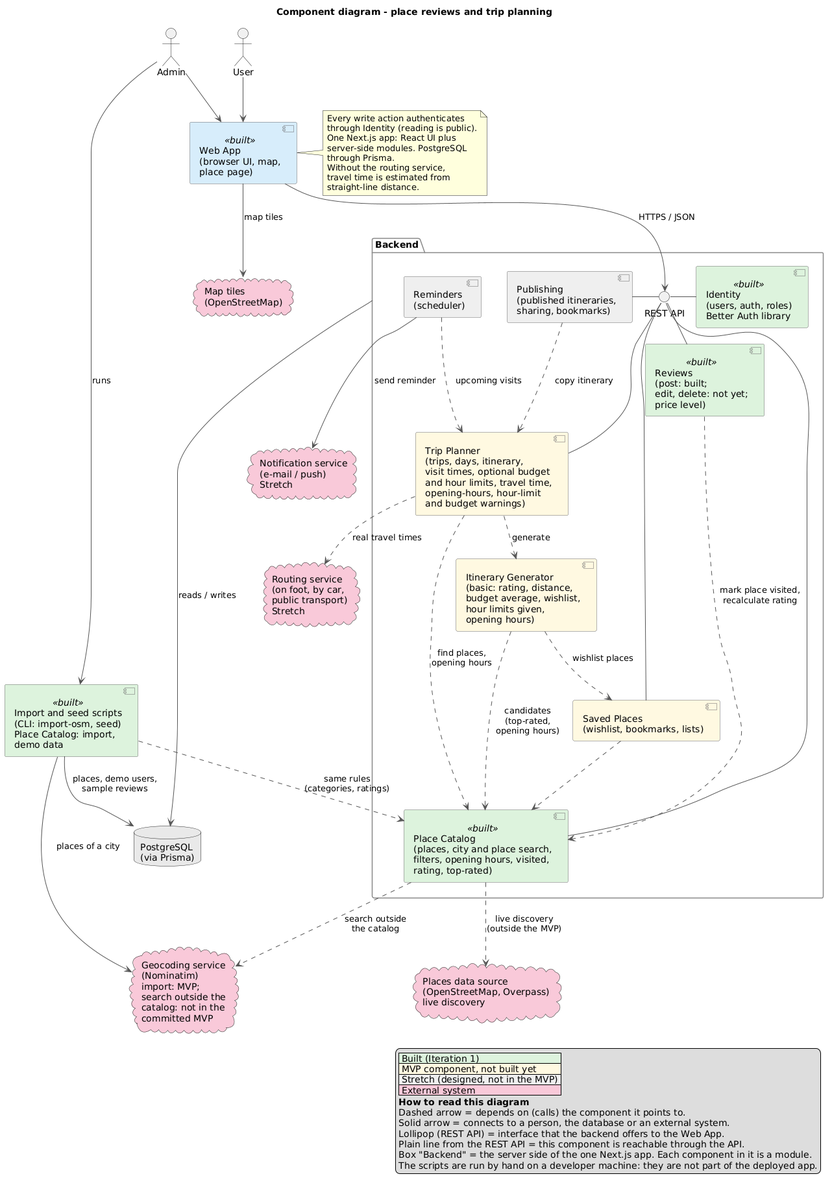
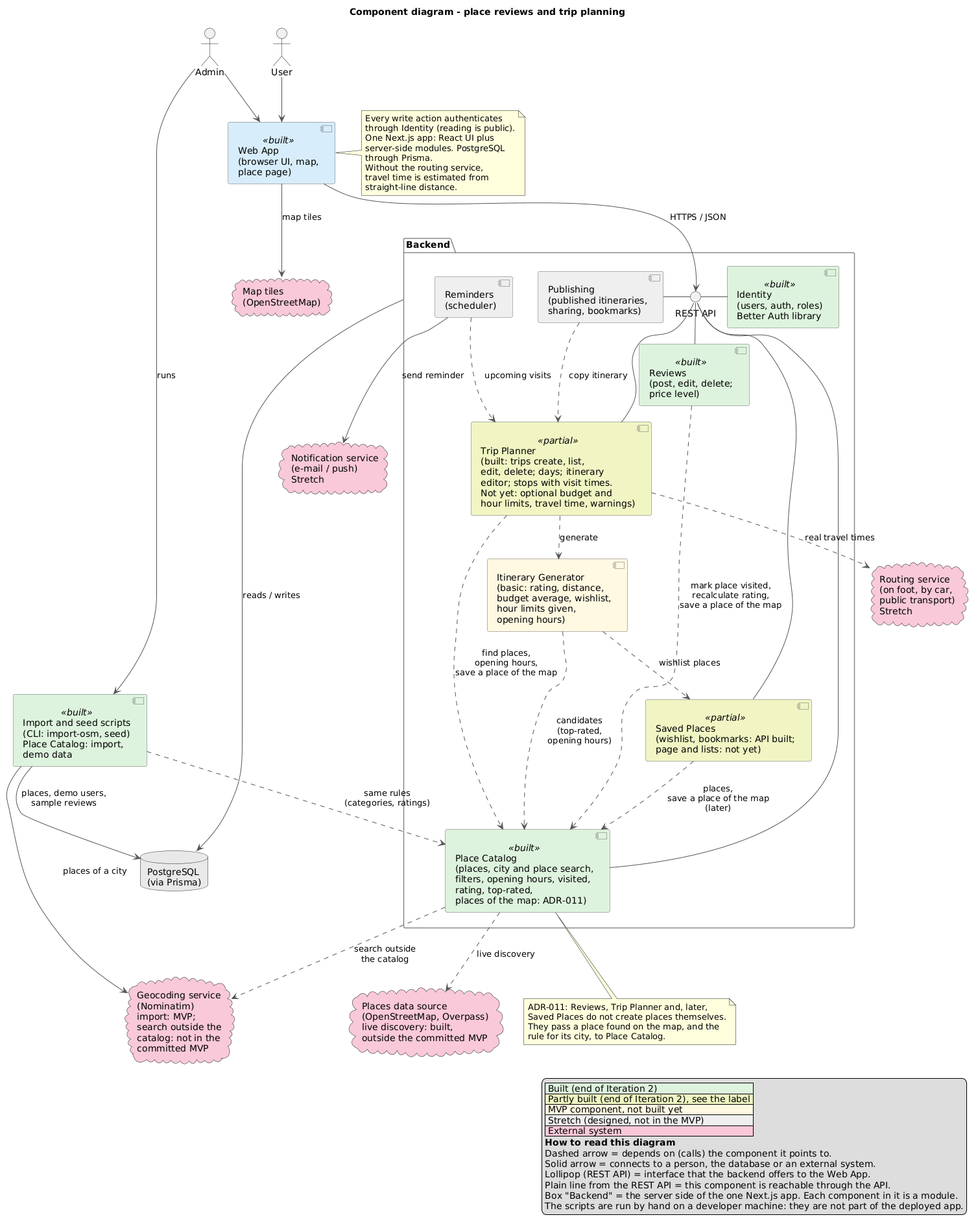
Design (DOO, end of Iteration 2): domain model and component diagram updated, scenario 2 and ADR-011
Domain model: DiscoveredPlace (a place found on the map), updatedAt of a review, the price baseline of OpenStreetMap, the order of the stops with a time, and the rules for editing a trip. Component diagram: state at the end of Iteration 2 (Reviews built, Trip Planner and Saved Places partly built) and the decision of scenario 2.
Section 4.2: saving a place found on the map. Two handlers have their own copy and already disagree on the city; coupling (R1 to R4) and cohesion analysis, four options, decision with the Strategy pattern for the city rule (ADR-011), before and after diagrams. ADR-010 is marked as built.

diff --git a/docs/design.md b/docs/design.md
@@ -158,9 +158,10 @@ Terms are defined in the [glossary](GLOSSARY.md).
 | User                           | User                | username, email, role (USER / ADMIN)                                                         | writes Reviews, makes Visits, saves Places, owns Lists, plans Trips. An ADMIN is also the moderator of suggestions |
 | City                           | Place               | name, country, latitude, longitude, timezone                                                           | contains Places, destination of Trips                                                     |
 | Place                          | Place               | name, description, category, address, latitude, longitude, openingHours (optional), /priceLevel, /averageRating, /reviewCount | belongs to a City, has Reviews and Visits                       |
+| DiscoveredPlace (value object) | Place               | name, address (optional), category (optional), latitude, longitude, priceLevel (optional)    | a place found on the map or in the search that the catalog does not have yet; becomes a Place the first time it is reviewed or added to a trip, in a City |
 | Visit                          | Place               | visitedAt                                                                                    | links a User to a Place (at most one per pair); created when the user posts a review      |
 | PlaceSuggestion (post-MVP)     | Place suggestion    | proposedName, proposedCategory, proposedAddress, status, suggestedAt, decidedAt (optional)   | suggested by a User, decided by a moderator (ADMIN), proposed in a City, approved as a Place |
-| Review                         | Review              | rating (1..5), priceLevel (FREE, €, €€ or €€€; required when posted), text, createdAt                                        | written by a User about a Place (a user reviews a given place at most once)               |
+| Review                         | Review              | rating (1..5), priceLevel (FREE, €, €€ or €€€; required when posted), text, createdAt, updatedAt                                        | written by a User about a Place (a user reviews a given place at most once)               |
 | SavedPlace                     | Saved places        | type (WISHLIST / BOOKMARK)                                                                   | a User saves a Place                                                                      |
 | SavedList                      | List                | name                                                                                         | owned by a User, contains bookmarked SavedPlaces                                          |
 | Trip                           | Trip                | name, startDate, endDate                                                                     | owned by a User, goes to a City, has Days and one Itinerary                               |
@@ -196,6 +197,18 @@ Design notes:
   the Visit.
 - Place suggestion is its own aggregate (Dream). When a suggestion is approved, a
   policy adds a Place to the catalog in the city it was proposed in.
+- A place found on the map is a value object, not a Place: it has no identity in the
+  catalog until it becomes one. The rule for its city depends on who saves it: a trip
+  takes it in the city of the trip, only if its position is inside that city (a trip
+  never holds a place of another city), and a review is meant to take it in the nearest city of the
+  catalog (S19; today a review always assigns Porto, see ADR-002). The two rules are one decision in [ADR-011](#adr-011-one-function-saves-a-place-found-on-the-map-and-the-rule-for-its-city-is-an-argument).
+- What OpenStreetMap says about the price (free, or nothing) is kept apart from what the
+  reviews say and no review changes it. When the reviews no longer give a price, the price
+  level of the place goes back to it.
+- The stops of a day with a visit time stay in the order of their times, and a stop
+  without a time can be anywhere. The name and the dates of a trip can be changed: every
+  day then gets its new date and keeps its number, and a day after the new end date is
+  removed with its stops, after the person confirms.
 
 ## 3. High-level architecture
 
@@ -206,8 +219,8 @@ Design notes:
 
 The component diagram is **the solution**: how the system is built to solve the problem
 described by the [domain model](#22-domain-model). Green components are built (end of
-Iteration 1), yellow ones are MVP and not built yet, grey ones are Stretch: designed,
-not in the MVP.
+Iteration 2), light green ones are partly built (the label says what), yellow ones are
+MVP and not built yet, grey ones are Stretch: designed, not in the MVP.
 
 **How to read the diagram** (the same legend is inside the diagram):
 
@@ -226,10 +239,10 @@ not in the MVP.
 | -------------------- | ---------------------------------------------------------------------------------------------------------------------------------------------------------------------------- | ----------------------------------------------------------------------- |
 | Web App (built)      | Browser UI for users and admins, including the map and the place page                                                                                                         | Backend REST API, Map tiles (external)                                  |
 | Identity (built)     | Users, authentication (Better Auth, see ADR-009), roles                                                                                                                                                 | Database                                                                |
-| Place Catalog (built) | The whole Place aggregate: places, city search, import, opening hours, visited marker, rating recalculation and the top-rated list (live discovery of places and search outside the catalog are built but outside the committed MVP; suggestions and moderation are post-MVP) | Database, Places data source (external), Geocoding service (external) |
-| Reviews (post built; edit and delete not yet) | Post, edit and delete reviews, including the price level. Triggers _mark place visited_ and _recalculate rating_ in Place Catalog (ADR-010 puts both policies in one function)                                            | Place Catalog                                                           |
-| Saved Places         | Wishlist, bookmarks and custom lists                                                                                                                                         | Place Catalog                                                           |
-| Trip Planner         | Trips, days, itineraries with their optional budget level and hour limits, visit times, travel-time estimates, opening-hours, hour-limit and budget warnings                                                | Place Catalog, Itinerary Generator, Routing service (external, Stretch) |
+| Place Catalog (built) | The whole Place aggregate: places, city search, import, opening hours, visited marker, rating recalculation, the top-rated list and saving the places found on the map (ADR-011) (live discovery of places and search outside the catalog are built but outside the committed MVP; suggestions and moderation are post-MVP) | Database, Places data source (external), Geocoding service (external) |
+| Reviews (built) | Post, edit and delete reviews, including the price level. Triggers _mark place visited_ and _recalculate rating_ in Place Catalog (ADR-010 puts both policies in one function) and passes a place found on the map to Place Catalog to be saved (ADR-011) | Place Catalog |
+| Saved Places (partly built) | Wishlist, bookmarks and custom lists. Built: the API for the wishlist and the bookmarks. Not yet: the page and the lists. Saving a place found on the map would go through Place Catalog (ADR-011) | Place Catalog |
+| Trip Planner (partly built) | Trips, days, itineraries. Built: create, list, edit and delete a trip, the itinerary editor, and the stops with their visit times and their order. Not yet: the optional budget level and hour limits, travel-time estimates, and the opening-hours, hour-limit and budget warnings. A place found on the map is passed to Place Catalog to be saved, with the rule for the city of the trip (ADR-011) | Place Catalog, Itinerary Generator, Routing service (external, Stretch) |
 | Itinerary Generator  | Builds a basic itinerary from top-rated places, type filters, distance, the budget average, the wishlist, the hour limits given for the generation and known opening hours.                           | Place Catalog, Saved Places                                             |
 | Import and seed scripts (built) | The command line side of Place Catalog: imports the places of a city from OpenStreetMap into a snapshot and the database, and loads the demo users, places and sample reviews. They are run by hand and reuse the rules of `src/domain` | Database, Geocoding service (external), Place Catalog rules |
 | Publishing (Stretch) | Published itineraries, sharing, bookmarks                                                                                                                                    | Trip Planner                                                            |
@@ -278,6 +291,7 @@ truth. Domain policies are on the EventStorming board and in section 2.1.
 | ADR-008 | Rank places by a weighted rating                          | Accepted              |
 | ADR-009 | Authentication with Better Auth                           | Accepted              |
 | ADR-010 | One function recomputes the stored values of a place      | Accepted              |
+| ADR-011 | One function saves a place found on the map, and the rule for its city is an argument | Accepted (built with S19 or the first story that needs it) |
 
 #### ADR-001: Full-stack architecture with Next.js 15 App Router
 
@@ -302,7 +316,7 @@ truth. Domain policies are on the EventStorming board and in section 2.1.
 - **Alternatives considered:** only the import script, with no live calls. It was the first version of this decision: the demos then need no external network, but a place that was not imported cannot be reviewed.
 - **Consequences:**
   - _Positive:_ with live discovery any place on the map can be reviewed or added to a trip, the catalog still works when Overpass is down (it falls back to the database), and relational integrity is kept for all reviews and trips because only saved places can be reviewed.
-  - _Trade-offs:_ the map depends on public Overpass servers for places that are not yet saved, and they can be slow or rate-limited. A place saved by `POST /api/reviews` is always assigned to the city Porto, so this must be fixed before live discovery is used in other cities. The trip route does not have this problem: it uses the city of the trip and the city areas.
+  - _Trade-offs:_ the map depends on public Overpass servers for places that are not yet saved, and they can be slow or rate-limited. A place saved by `POST /api/reviews` is always assigned to the city Porto, so this must be fixed before live discovery is used in other cities. The trip route does not have this problem: it uses the city of the trip and the city areas. [ADR-011](#adr-011-one-function-saves-a-place-found-on-the-map-and-the-rule-for-its-city-is-an-argument) decides how the two are brought together.
 
 #### ADR-003: Soft budget metric based on cost points
 
@@ -412,7 +426,7 @@ truth. Domain policies are on the EventStorming board and in section 2.1.
 
 #### ADR-010: One function recomputes the stored values of a place
 
-- **Status:** Accepted. It is built with US-C2-01 (edit and delete a review).
+- **Status:** Accepted and built in Iteration 2 with US-C2-01 (edit and delete a review): `refreshPlaceStats` and `markPlaceVisited` are in `src/lib/place-stats.ts`.
 - **Context:** A place stores three values that are derived from its reviews: `averageRating`, `reviewCount` and `priceLevel`. The rules are pure functions in `src/domain/reviews/rating.ts`, but the sequence that applies them (load the reviews, apply the rules, write the three values) is written in the post handler and in the seed, and the visit policy only in the post handler. The rules change often, and the seed already missed the visit policy because it was copied, not shared. Edit and delete (US-C2-01) would add two more copies. The full analysis is in section 4.1 ([change scenarios](#4-future-change-scenarios-coupling-cohesion-and-design-decisions)).
 - **Decision:** One function, `refreshPlaceStats(db, placeId)` in `src/lib/place-stats.ts`, recomputes the three values, and `markPlaceVisited(db, userId, placeId)` next to it holds the visit policy. The post, edit and delete handlers and the seed call them and pass their database client. The formulas stay pure in `src/domain/reviews/rating.ts`.
 - **Alternatives considered:** copying the steps into each handler (cheapest now, functional coupling between four writers with the most volatile rules); computing the values in the database with a trigger or a view (a volatile rule moves into SQL, away from the tested code); not storing the values and computing them on every read (every list and ranking aggregates thousands of reviews).
@@ -420,6 +434,17 @@ truth. Domain policies are on the EventStorming board and in section 2.1.
   - _Positive:_ functional coupling becomes contract coupling (a caller only says which place changed), a rule change touches one place, the Place policies leave the review handler as the component diagram says, and the seed cannot miss a policy again.
   - _Trade-offs:_ one more module and one more level of indirection, and the function is tested with a database or a fake client, not as a pure function. Two simultaneous requests would compute from a stale list of reviews, so each writer calls the function inside its own transaction and the function first locks the row of the place (`SELECT … FOR NO KEY UPDATE`): the second request waits, then reads the reviews that the first one saved.
   - _Revisit:_ when the stored values grow (for example the rating score is stored), or when `rating.ts` keeps growing with unrelated rules and must be split.
+
+#### ADR-011: One function saves a place found on the map, and the rule for its city is an argument
+
+- **Status:** Accepted. It is built with the first story that needs it: S19 (live discovery, AC2) or saving a place found on the map to a wishlist or bookmarks, as its first step.
+- **Context:** A place found on the map becomes a `Place` the first time it is reviewed or added to a trip. Two handlers do it, each with its own copy of the sequence, and the copies disagree: `POST /api/reviews` assigns the city Porto without checking the position, `POST /api/trips/[id]/stops` assigns the city of the trip and checks the position against the city areas and saves only after the stop is accepted. S19 asks for a third rule, the nearest city of the catalog. Saving a place of the map to a wishlist would add a third copy. The rules change often (9 commits to the reviews route and 6 to the stops route between 1 and 19 Nov 2026) and the column `osmPriceLevel` (#157) had to be added in both. The full analysis is in section 4.2 ([change scenarios](#4-future-change-scenarios-coupling-cohesion-and-design-decisions)).
+- **Decision:** Two steps, because a refusal must save nothing. `parseDiscoveredPlace(placeId, raw, cityRule)` (pure, `src/domain/osm/discovered-place.ts`) checks the data and applies a city rule. `saveDiscoveredPlace(db, discovered)` (new, `src/lib/discovered-places.ts`) finds the place by id or OpenStreetMap id or creates it with `source = LAZY_OSM` and the price baseline, and the caller calls it after its own checks, inside its own transaction. A city rule is a function from a position to a city or a refusal, in `src/domain/osm/city-rules.ts`: `cityOfTrip(cityId)` for trips and `nearestCity(cities)` for reviews and saved places (the Strategy pattern, in function form).
+- **Alternatives considered:** copying the steps into the saved places route (functional coupling between three writers, and the copies keep drifting); a separate endpoint that the browser calls before the review, the stop or the saved place (it breaks the rule that a refusal saves nothing and needs two requests); an abstract class with a Template Method and one subclass per caller (the code base uses functions, and the callers differ in two things only).
+- **Consequences:**
+  - _Positive:_ functional coupling becomes contract coupling, a change of the rule for the city touches `city-rules.ts` only, Place Catalog owns the creation of a `Place` as the component diagram says, and the reviews handler loses about 80 lines that are not about reviews.
+  - _Trade-offs:_ one more module and one more level of indirection. The reviews route stops assigning Porto, so S19 has to say what happens to a place that is far from every city. The function reads again when its create loses a race on the unique OpenStreetMap id.
+  - _Revisit:_ when a second source of places is added (`Place.osmId` and `source = LAZY_OSM` name the provider), or when the city rules need more than a position.
 
 ## 4. Future change scenarios: coupling, cohesion, and design decisions
 
@@ -430,6 +455,7 @@ each iteration, and its decision is recorded as an ADR in [section 3.3](#33-arch
 | Scenario | Written at | Decision |
 | -------- | ---------- | -------- |
 | 1. Edit and delete a review (US-C2-01), section 4.1 below | End of Iteration 1 | [ADR-010](#adr-010-one-function-recomputes-the-stored-values-of-a-place) |
+| 2. Save a place found on the map (S19 and the wishlist), section 4.2 below | End of Iteration 2 | [ADR-011](#adr-011-one-function-saves-a-place-found-on-the-map-and-the-rule-for-its-city-is-an-argument) |
 
 ### 4.1. Scenario 1 — Edit and delete a review (Iteration 1)
 
@@ -565,6 +591,155 @@ Before and after:
 - The stored values are no longer enough (for example the rating score must be stored): the function grows.
   If it must run for thousands of places at once, option D or a scheduled job becomes worth discussing.
 - `rating.ts` keeps growing with unrelated rules: split it (see the cohesion analysis above).
+
+### 4.2. Scenario 2 — Save a place found on the map (Iteration 2)
+
+#### Change scenario and design context
+
+**The scenario.** The story **S19 Live discovery** (Stretch, built in the tracer bullet) says that a place found on the map is saved to the
+catalog **"in the correct city"** when its first review is posted (AC2), and its business rule is: "a discovered place is
+assigned to the nearest city that is in the catalog". The story also records that this is not true today: a place saved from
+a review always goes to Porto (ADR-002). Next to it there is a second, equally plausible request: a user finds a place on the
+map and wants to put it on the wishlist or bookmark it, without writing a review first. The saved places API takes the id of a
+catalog place only, so such a place needs a `Place` row before it can be saved. Both requests touch the same knowledge: **how a
+place found on the map becomes a `Place`**. The change is plausible because S19 is a story and a wishlist of places found on the
+map is the natural next use, and it is sensitive because the rule for the city is about to change.
+
+**The design today.** Two handlers turn a place of the map into a `Place` row, each with its own copy of the sequence:
+
+| Where                                    | How a place of the map is saved                                                                                                                                                                                                                         |
+| ---------------------------------------- | ------------------------------------------------------------------------------------------------------------------------------------------------------------------------------------------------------------------------------------------------------- |
+| `POST /api/reviews` (about 80 lines)     | Before the review. City: the first city whose name contains "Porto", created if it does not exist. A missing position becomes the centre of Porto. The position is not checked. Name, address and category fall back to defaults. No handling of two requests creating the same place. |
+| `POST /api/trips/[id]/stops` (about 60 lines) | After the stop is accepted, so a refusal saves nothing (#60). City: the city of the trip, and only if the position is inside its area (`city-areas.ts`). The data is checked by `parseDiscoveredPlace`. A lost race on the unique OpenStreetMap id answers 409. |
+
+Both write `source = LAZY_OSM`, set the price baseline with `osmPriceLevelOf` and reuse a place that has the same OpenStreetMap
+id. They are not the rule of S19, and they are not the same rule as each other. The import script and the seed also create
+places, but from snapshot files, in bulk and with `source = IMPORTED`: a different path, outside this scenario. One change shows
+the cost of the copies: the column `osmPriceLevel` (#157) had to be written in both handlers, in separate commits, and in the
+import, the seed and the backfill script.
+
+#### Coupling and cohesion analysis
+
+**Coupling analysis.** The scales are the ones of the analysis in section 4.1: strength (contract, model, functional, intrusive), distance D1 to D5
+(D3 is another package under the same top-level package, D4 another top-level package) and volatility V1 to V4.
+
+**The relationships.**
+
+| #   | Relationship                                                                                       | Strength   | Distance | Volatility | Verdict           |
+| --- | -------------------------------------------------------------------------------------------------- | ---------- | -------- | ---------- | ----------------- |
+| R1  | `POST /api/reviews` and `POST /api/trips/[id]/stops`                                               | Functional | D3       | V4         | Worth redesigning |
+| R2  | Both routes and `src/domain/osm/osm.ts` (`osmIdFromDiscoveredPlaceId`, `osmPriceLevelOf`)          | Contract   | D4       | V4         | Balanced          |
+| R3  | `POST /api/trips/[id]/stops` and `parseDiscoveredPlace` (`src/domain/osm/discovered-place.ts`)     | Model      | D4       | V3         | Tolerable         |
+| R4  | A future saved-places handler and the two routes, if the steps are copied again                    | Functional | D3       | V4         | Worth avoiding    |
+
+**Evidence.**
+
+- **R1. Strength:** both must know how the data sent by the browser becomes a row of `Place`: the id of the place is its
+  OpenStreetMap id, the origin is `LAZY_OSM`, the price baseline is kept apart from the reviews, an existing place with the same
+  OpenStreetMap id is reused, and a city is chosen. No code is shared: the rule is written twice, so this is functional coupling
+  (if the copies were removed, both sides would still have to change together). The two copies already disagree on the city,
+  which shows that copies drift. **Distance:** `src/app/api/reviews` and `src/app/api/trips/[id]/stops` are different
+  packages under the top-level package `app` (D3), and they belong to two components, Reviews and Trip Planner.
+  **Volatility:** between 1 and 19 Nov 2026 the reviews route changed 9 times and the stops route 6 times (git), and the
+  rule for the city is about to change (S19, AC2). That is more than once a month: V4.
+- **R2. Strength:** the routes pass a string or a price level and get a value back (`"node/123"` or `null`, `"FREE"` or `null`).
+  They do not know the format of the id. That is contract coupling, and it absorbs the volatility of `osm.ts`
+  (7 commits since 1 Nov: V4). **Distance:** `app` and `domain` (D4), acceptable at this strength.
+- **R3. Strength:** the stops route spreads the object returned by `parseDiscoveredPlace` into `place.create`
+  (`...discovered`), so it must know the fields of `DiscoveredPlace`, which are columns of `Place`: model coupling.
+  **Distance:** `app` and `domain` (D4). **Volatility:** the type is new, but it follows the columns of `Place`, which got a
+  new one on 19 Nov (#157) and a time zone on `City` on 12 Nov: several times in a few weeks, V3. The reviews route does not
+  use `parseDiscoveredPlace` at all: it reads the same fields by hand.
+- **R4.** If saving a place of the map to a wishlist copies the steps, three handlers must change together whenever the rule
+  changes. They would sit in `app/api/reviews`, `app/api/trips/[id]/stops` and `app/api/saved-places` (D3), and the rule is V4.
+  The relationship does not exist yet: it is the scenario.
+
+**Cohesion analysis.** The component diagram says that Place Catalog owns the `Place` aggregate and that Reviews and Trip Planner
+call it. The code says that **Place Catalog owns none of the creation**: Reviews and Trip Planner call `prisma.place.create`
+themselves. In the **reviews handler** about 80 lines (from "On-the-fly ingestion" to the 404) are about places, not about
+reviews, and they run before the first rule of the review itself. In the **stops handler** the lookup by id and by OpenStreetMap
+id, the parsing and the creation sit inside the same transaction callback as the ordering of the stops, which is what this
+handler is for (`stop-order.ts`). The sequence is the same, but it is written in two components that are not the owner. Cohesion is low at
+the level of the component, and a third copy would make it lower. **`discovered-place.ts`** is cohesive (it checks the data of a place of
+the map and nothing else), so it is the natural place for the shared part to grow.
+
+#### Alternatives, decision, and consequences
+
+**Options.**
+
+| Option                                                                                                  | Effect on strength, distance, volatility                                                                                         | Cost                                                                                                                  |
+| ------------------------------------------------------------------------------------------------------- | -------------------------------------------------------------------------------------------------------------------------------- | --------------------------------------------------------------------------------------------------------------------- |
+| A. Do nothing: copy the steps into the saved places route and fix the city of reviews on its own         | Functional coupling between three writers (R1 and R4), V4. The copies keep drifting                                              | Cheapest now, most expensive at each change of the rule                                                               |
+| B. One function in Place Catalog that saves a place of the map. The rule for its city is an argument (a Strategy, as a function) | Functional becomes contract: a caller says "this place, with this city rule". V4 stays but is absorbed in one place         | One module, one level of indirection, and two small functions for the two city rules                                  |
+| C. A separate endpoint "save a place of the map" that the browser calls before the review, the stop or the saved place | One writer, but the place is saved before the caller has accepted its request                                                | Breaks the rule of #60 that a refusal saves nothing (orphan places), needs two requests, and puts the order of the steps in the browser |
+| D. An abstract class with a Template Method and one subclass per caller                                  | Removes the copies, in the form of a class hierarchy                                                                              | The code base uses functions and modules, not classes, and the callers differ in two things only, which arguments say more simply than subclasses |
+
+**Decision.** **Option B** ([ADR-011](#adr-011-one-function-saves-a-place-found-on-the-map-and-the-rule-for-its-city-is-an-argument)). In two steps, because a refusal must save nothing:
+
+1. `parseDiscoveredPlace(placeId, raw, cityRule)` in `src/domain/osm/discovered-place.ts` stays pure. It checks the data, asks
+   the **city rule** where the place goes, and returns the place with its city, or a refusal.
+2. `saveDiscoveredPlace(db, discovered)` in the new `src/lib/discovered-places.ts`, next to `place-stats.ts`, finds the place by
+   its id or its OpenStreetMap id, or creates it with `source = LAZY_OSM` and the price baseline, and returns it. The
+   caller calls it **after its own checks**: the stop is accepted, the review is not a duplicate, the saved place is not saved yet.
+
+A **city rule** is a function from a position to a city or a refusal. There are two, in the new `src/domain/osm/city-rules.ts`:
+`cityOfTrip(cityId)`, the rule of the stops route today (the city of the trip, if the position is inside its area), and
+`nearestCity(cities)`, the rule of S19. The reviews route and the saved places route pass `nearestCity`, the stops route
+passes `cityOfTrip`. The change is made with the first story that needs it, S19 or the wishlist of places of the map, as its
+first step, so that no third copy is ever written.
+
+**The pattern, in the terms of the course.** The two callers need the same behaviour and differ in how the city is chosen.
+Without a design, that difference becomes a flag inside the function (`if (tripId) … else …`), the "flag-based approach" of the course: each
+new caller adds a case, and the function has to be edited every time. The **Strategy** pattern captures the varying part
+separately and plugs it in. In TypeScript the strategy is a function, which is the idiom of this code base (CUPID: idiomatic).
+
+| Pattern role           | In this design                                           | Explanation                                                                      |
+| ---------------------- | -------------------------------------------------------- | -------------------------------------------------------------------------------- |
+| Strategy (interface)   | The type `CityRule`: position in, city or refusal out    | One signature, so any rule can be plugged in                                     |
+| Concrete strategy A    | `cityOfTrip(cityId)` in `city-rules.ts`                  | The city of the trip, if the position is inside its area (a trip never holds a place of another city) |
+| Concrete strategy B    | `nearestCity(cities)` in `city-rules.ts`                 | The rule of S19                                                                  |
+| Context                | `parseDiscoveredPlace`                                   | Validates the data and delegates the choice of the city to the rule it is given  |
+| Client                 | The three route handlers                                 | Each one chooses the rule and decides when to save                               |
+
+**Template Method was considered and not used** (option D): it would put the steps in an abstract class and let each caller
+override the city, but the callers do not need to inherit anything, and a function with one argument is smaller than a class
+with three subclasses.
+
+Before and after:
+
+![Before the decision](design/change-scenario-2-before.png)
+
+![After the decision](design/change-scenario-2-after.png)
+
+**Why this is better balanced, not only more decoupled.**
+
+- **Strength:** R1 and R4 go from functional to contract: the callers no longer know the columns of `Place`, the origin, the
+  price baseline or how to reuse a place by its OpenStreetMap id. R3 disappears, because the route no longer builds the data
+  of `place.create`.
+- **Distance:** it does not change. Callers stay in `app`, and the knowledge now lives in Place Catalog, so the distance a change has to travel
+  is one module.
+- **Volatility:** it does not change. The rule for the city is still V4, but it now changes in `city-rules.ts` and nowhere else.
+- **Cohesion:** the creation of a `Place` moves to its owner, the reviews handler loses about 80 lines that are not about
+  reviews, and the stops handler keeps only what is about stops.
+
+**Costs and risks.**
+
+- One more module and one more level of indirection, and two small rules to test (one with a list of cities).
+- The behaviour of the reviews route changes on purpose: it stops assigning Porto and follows S19. S19 says "the nearest city
+  that is in the catalog" and does not say what to do with a place that is far from every city. That has to be decided with the story.
+- The reviews handler must save the place inside the transaction of the review, as the stops handler already does, so that a
+  refused review saves no place.
+- Two users who save the same new place at the same moment race on the unique OpenStreetMap id. Today the stops route answers 409 and the
+  reviews route has no handling for it (not tested against the running app). The function reads again when its create loses the race, so the
+  second request gets the place the first one saved.
+
+**When to revisit.**
+
+- A second source of places beside OpenStreetMap: `parseDiscoveredPlace` is the only code that knows the OpenStreetMap payload
+  (it plays the role of an adapter), but `Place.osmId` and `source = LAZY_OSM` carry the name of the provider. The model would
+  need a provider and an external id then.
+- More than two city rules, or rules that need data: `CityRule` would receive it, or the rules would become a small registry.
+- If the import script and the seed ever need the same checks, they can call `saveDiscoveredPlace`.
 
 ## 5. Existing design pattern instances
 
